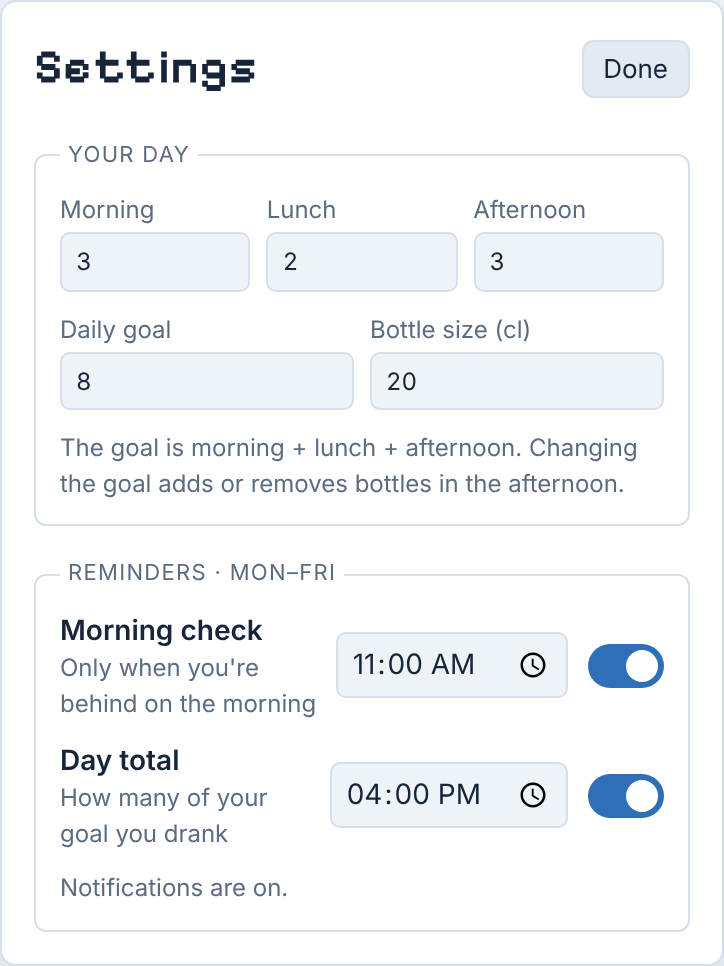
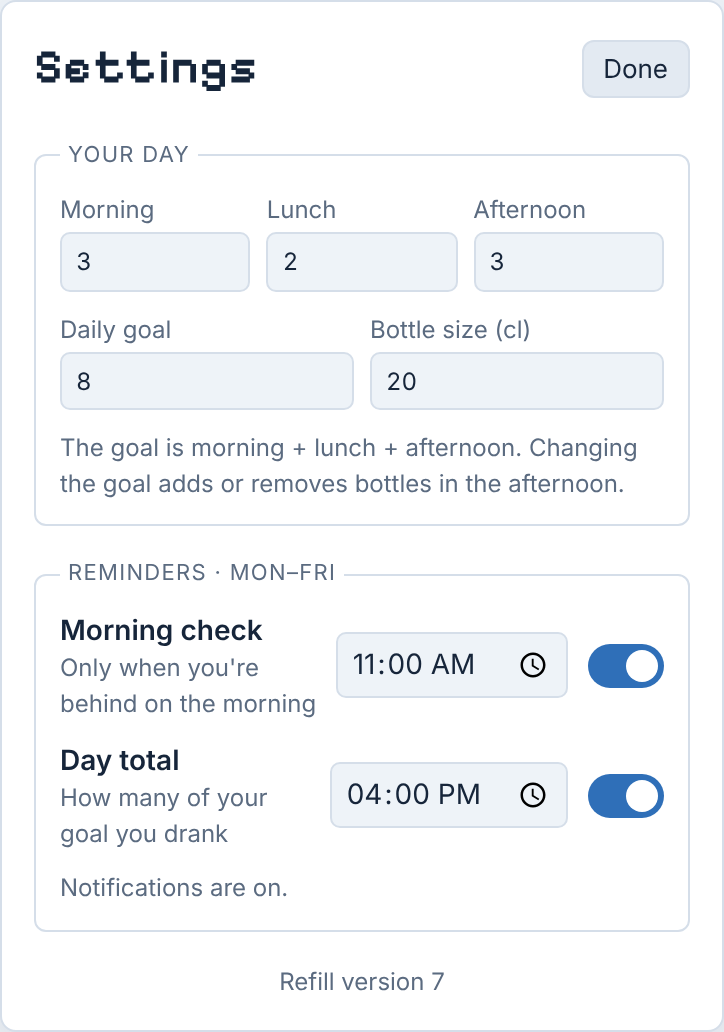
Show the app's version at the bottom of Settings
src/version.js holds the version (7), Settings shows "Refill version 7",
and the service worker's cache name follows it; a unit test fails if
they differ, so every release also updates installed copies.

Claude-Session: https://claude.ai/code/session_01NwyJ4FQ7jCZFZn1ZnZDxZk

diff --git a/src/ui/settings-view.js b/src/ui/settings-view.js
@@ -1,4 +1,5 @@
 import { goal, withGoal, withPart, withBottleCl } from "../core/settings.js";
+import { VERSION } from "../version.js";
 
 const field = (id, label, value, min, max) =>
   `<label class="field" for="${id}">${label}<input type="number" id="${id}" value="${value}" min="${min}" max="${max}"></label>`;
@@ -32,7 +33,8 @@ export function renderSettings(root, settings, notifState, { onChange, onDone, o
     reminder("morningCheck", "Morning check", "Only when you're behind on the morning", settings.morningCheck) +
     reminder("dayTotal", "Day total", "How many of your goal you drank", settings.dayTotal) +
     `<div id="notif"></div>` +
-    `</fieldset></div>`;
+    `</fieldset>` +
+    `<p class="note version">Refill version ${VERSION}</p></div>`;
 
   // Fields are updated in place after a change (not rebuilt), so keyboard focus stays put.
   let current = settings;

diff --git a/sw.js b/sw.js
@@ -1,8 +1,8 @@
 // Offline support: every app file is cached on install and served cache-first.
-// When any cached file changes, bump CACHE (refill-v2, ...): the new worker
+// When any cached file changes, raise VERSION in src/version.js and CACHE here to match (refill-v7, ...): the new worker
 // installs under the new name, takes over on the next load, and activate
 // deletes the old cache.
-const CACHE = "refill-v6";
+const CACHE = "refill-v7";
 
 // Every file the page loads. tests/smoke/install.test.js checks that each
 // src/**/*.js module is listed, so a new module cannot be forgotten.
@@ -26,6 +26,7 @@ const PRECACHE = [
   "src/ui/settings-view.js",
   "src/ui/stars.js",
   "src/ui/tracker.js",
+  "src/version.js",
 ];
 
 self.addEventListener("install", (event) => {

diff --git a/tests/unit/version.test.js b/tests/unit/version.test.js
@@ -1,0 +1,12 @@
+import test from "node:test";
+import assert from "node:assert/strict";
+import { readFile } from "node:fs/promises";
+import { VERSION } from "../../src/version.js";
+
+test("the version is a whole number", () => assert.match(String(VERSION), /^\d+$/));
+
+test("the service worker's cache name follows the version, so every release updates installed copies", async () => {
+  const sw = await readFile(new URL("../../sw.js", import.meta.url), "utf8");
+  assert.match(sw, new RegExp(`const CACHE = "refill-v${VERSION}";`));
+  assert.match(sw, /"src\/version\.js"/);
+});

diff --git a/tests/smoke/settings.test.js b/tests/smoke/settings.test.js
@@ -109,3 +109,12 @@ test("settings: keyboard focus follows Tab and stays on a toggled switch", async
   assert.deepEqual(errors, []);
   await context.close();
 });
+
+test("settings show the app's version", async () => {
+  const { VERSION } = await import("../../src/version.js");
+  const { context, page, errors } = await open();
+  await page.locator("#openSettings").click();
+  await page.getByText(`Refill version ${VERSION}`).waitFor();
+  assert.deepEqual(errors, []);
+  await context.close();
+});

diff --git a/styles.css b/styles.css
@@ -173,3 +173,4 @@ button { cursor: pointer; }
 
 .sr-only { position: absolute; width: 1px; height: 1px; overflow: hidden; clip-path: inset(50%); white-space: nowrap; }
 .storage-notice { margin: 0; padding: 6px 16px 10px; font-size: 12px; color: var(--muted); }
+.settings .version { text-align: center; }

diff --git a/src/version.js b/src/version.js
@@ -1,0 +1,3 @@
+// Refill's version, shown in Settings. Raise it by one for every release;
+// sw.js's cache name must match (refill-v<VERSION>), so installed copies update.
+export const VERSION = 7;

diff --git a/docs/adr/platform.md b/docs/adr/platform.md
@@ -19,5 +19,7 @@ cache-first, so the installed app opens offline. The fonts (Pixelify Sans and In
 they work offline. A new worker takes over on the next
 load (`skipWaiting` on install, `clients.claim` on activate) and deletes older
 caches. Every precache request bypasses the HTTP cache (`cache: "reload"`), so a
-new worker never stores stale files. The cache name must be bumped (`refill-v2`, `refill-v3`, ...) whenever
-a cached file changes, or installed copies keep the old files.
+new worker never stores stale files. Every release raises `VERSION` in `src/version.js` by one, and the cache name
+follows it (`refill-v7`, `refill-v8`, ...); a unit test fails if they differ.
+Without a new cache name, installed copies keep the old files. Settings shows
+the version, so Sophie can check which release she is running.

diff --git a/README.md b/README.md
@@ -36,7 +36,8 @@ nothing is fetched from other sites.
 - Settings: the bottles in each part, the daily goal (changing it adds or
   removes bottles in the afternoon), the bottle size, and the morning check and
   day total reminders (on or off, and the time). Lowering the goal never
-  removes bottles you already logged.
+  removes bottles you already logged. The bottom of Settings shows which
+  version of Refill is running.
 
   <img src="docs/images/settings.png" width="330" alt="Settings: bottles per part, daily goal, bottle size, and the two reminders with their times and switches">
 - Reminders, Monday to Friday: the morning check (only when you are behind on
